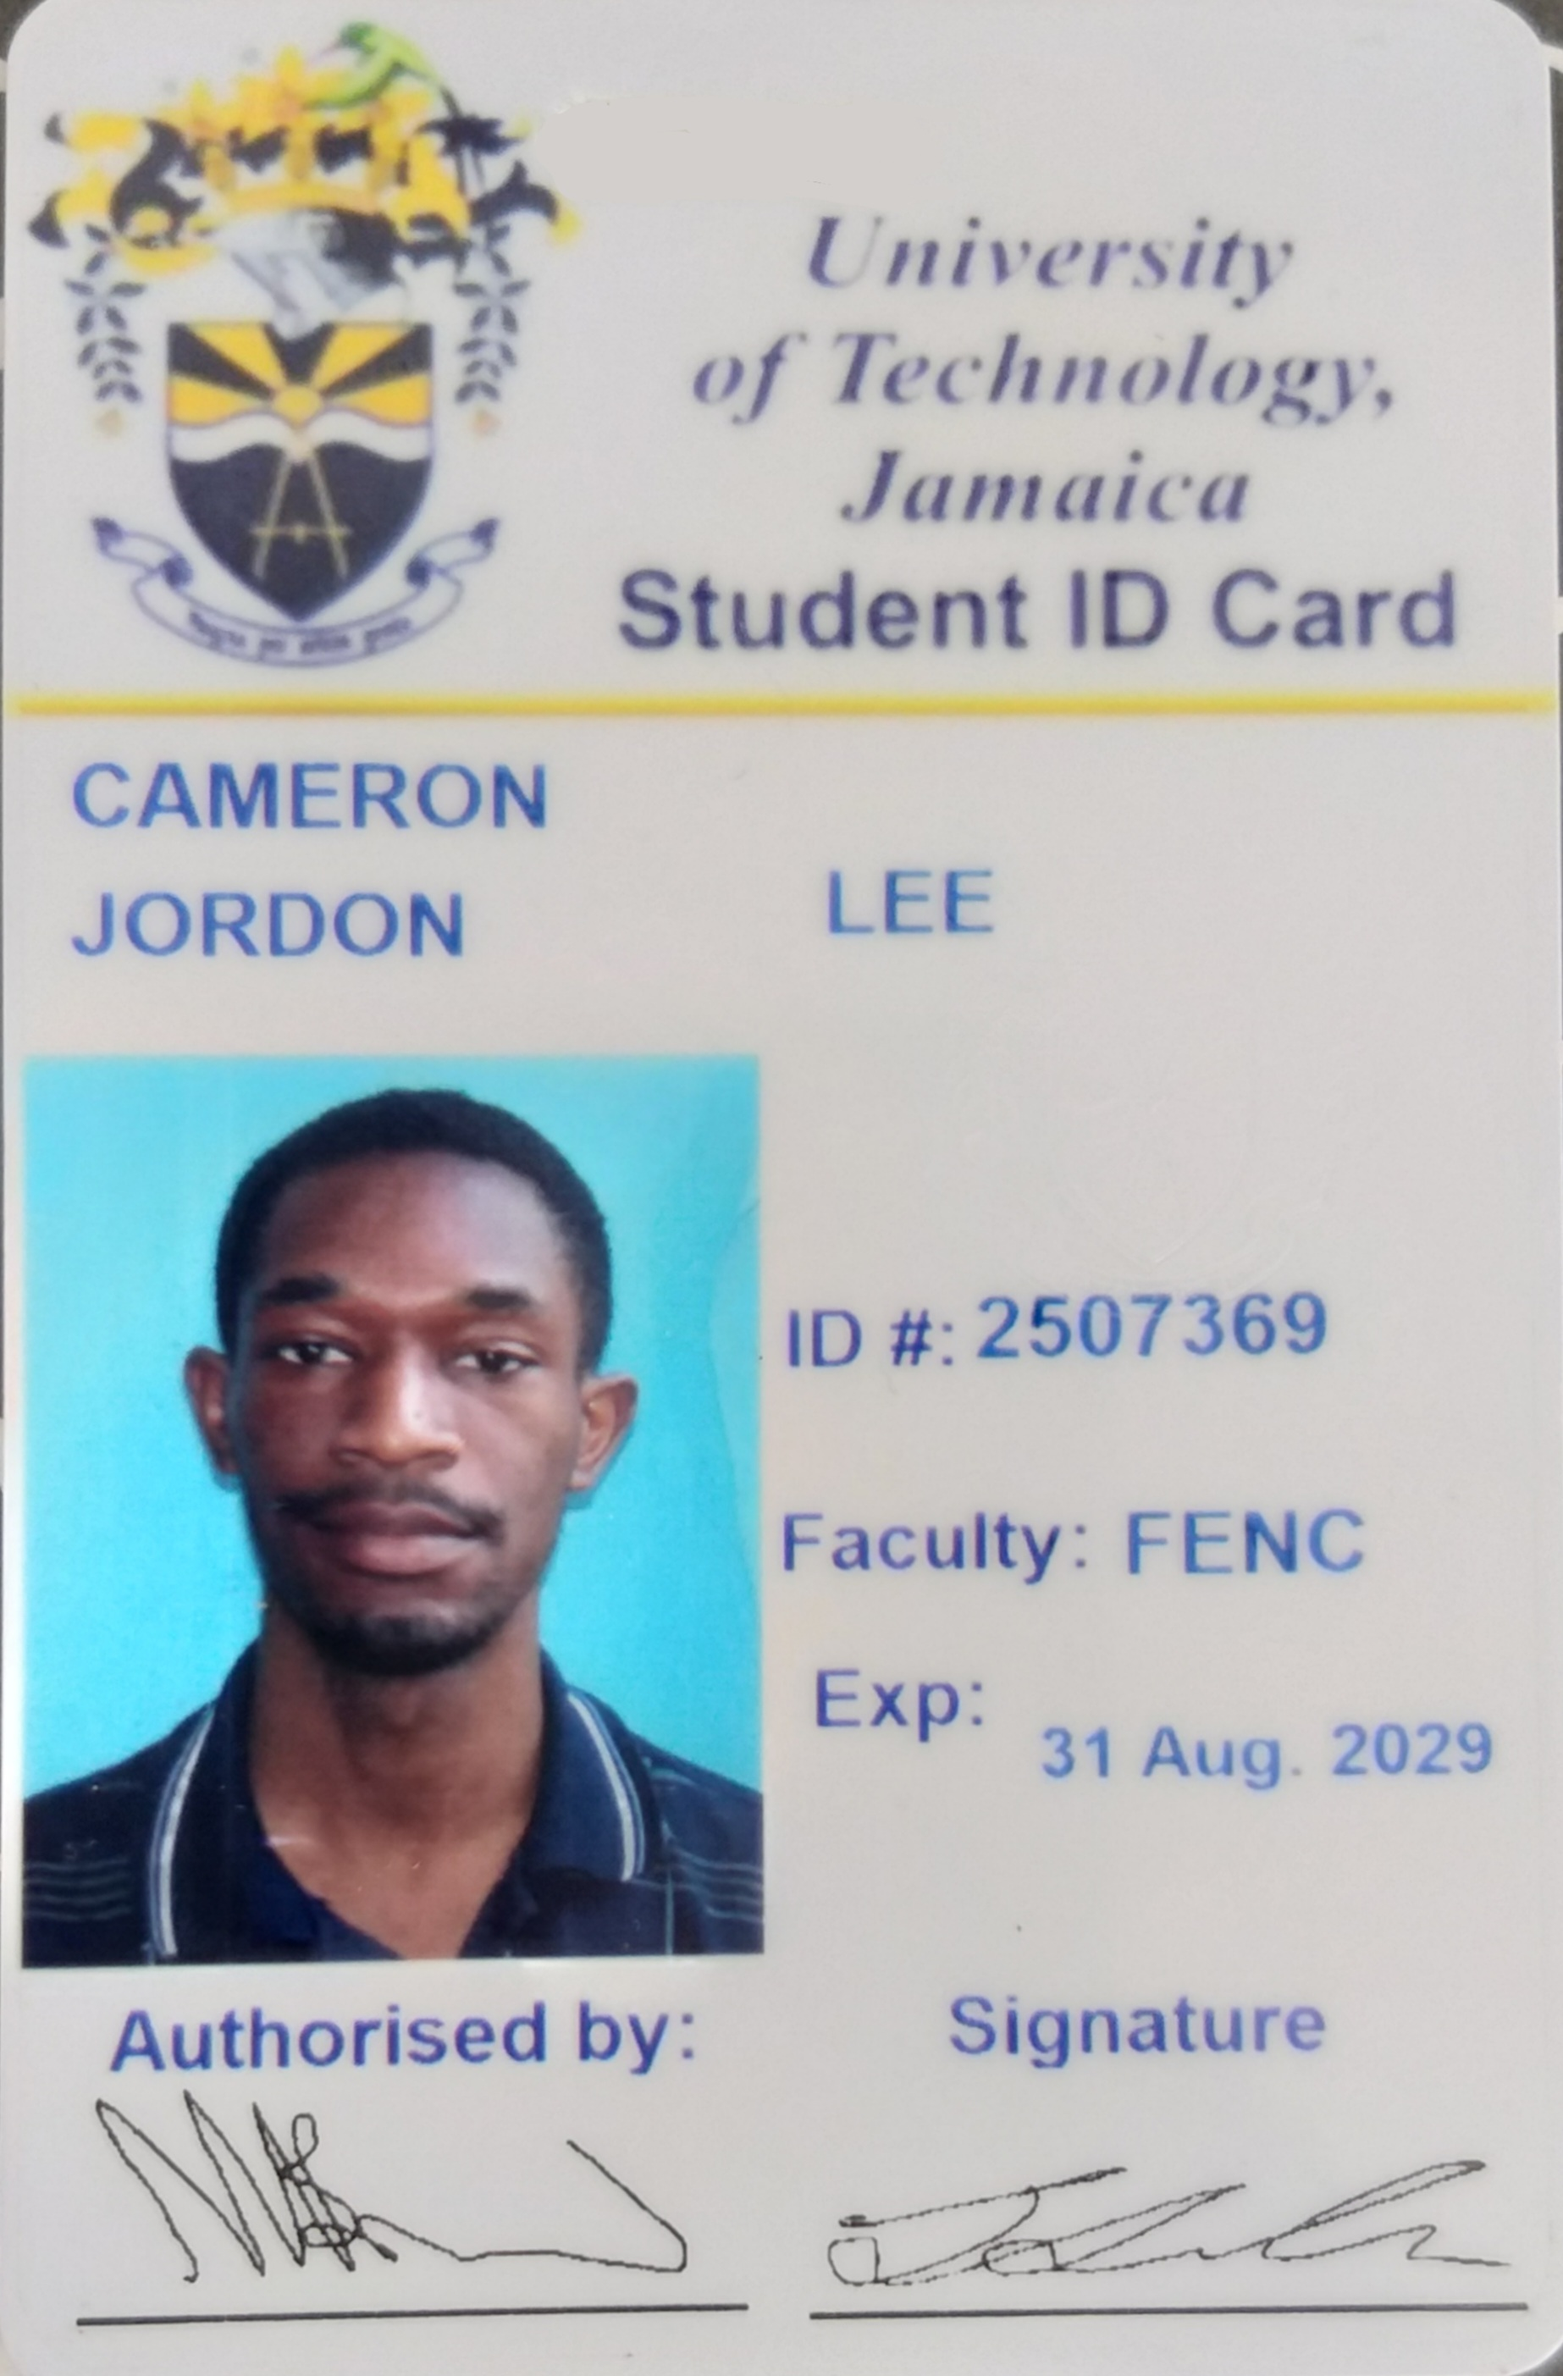
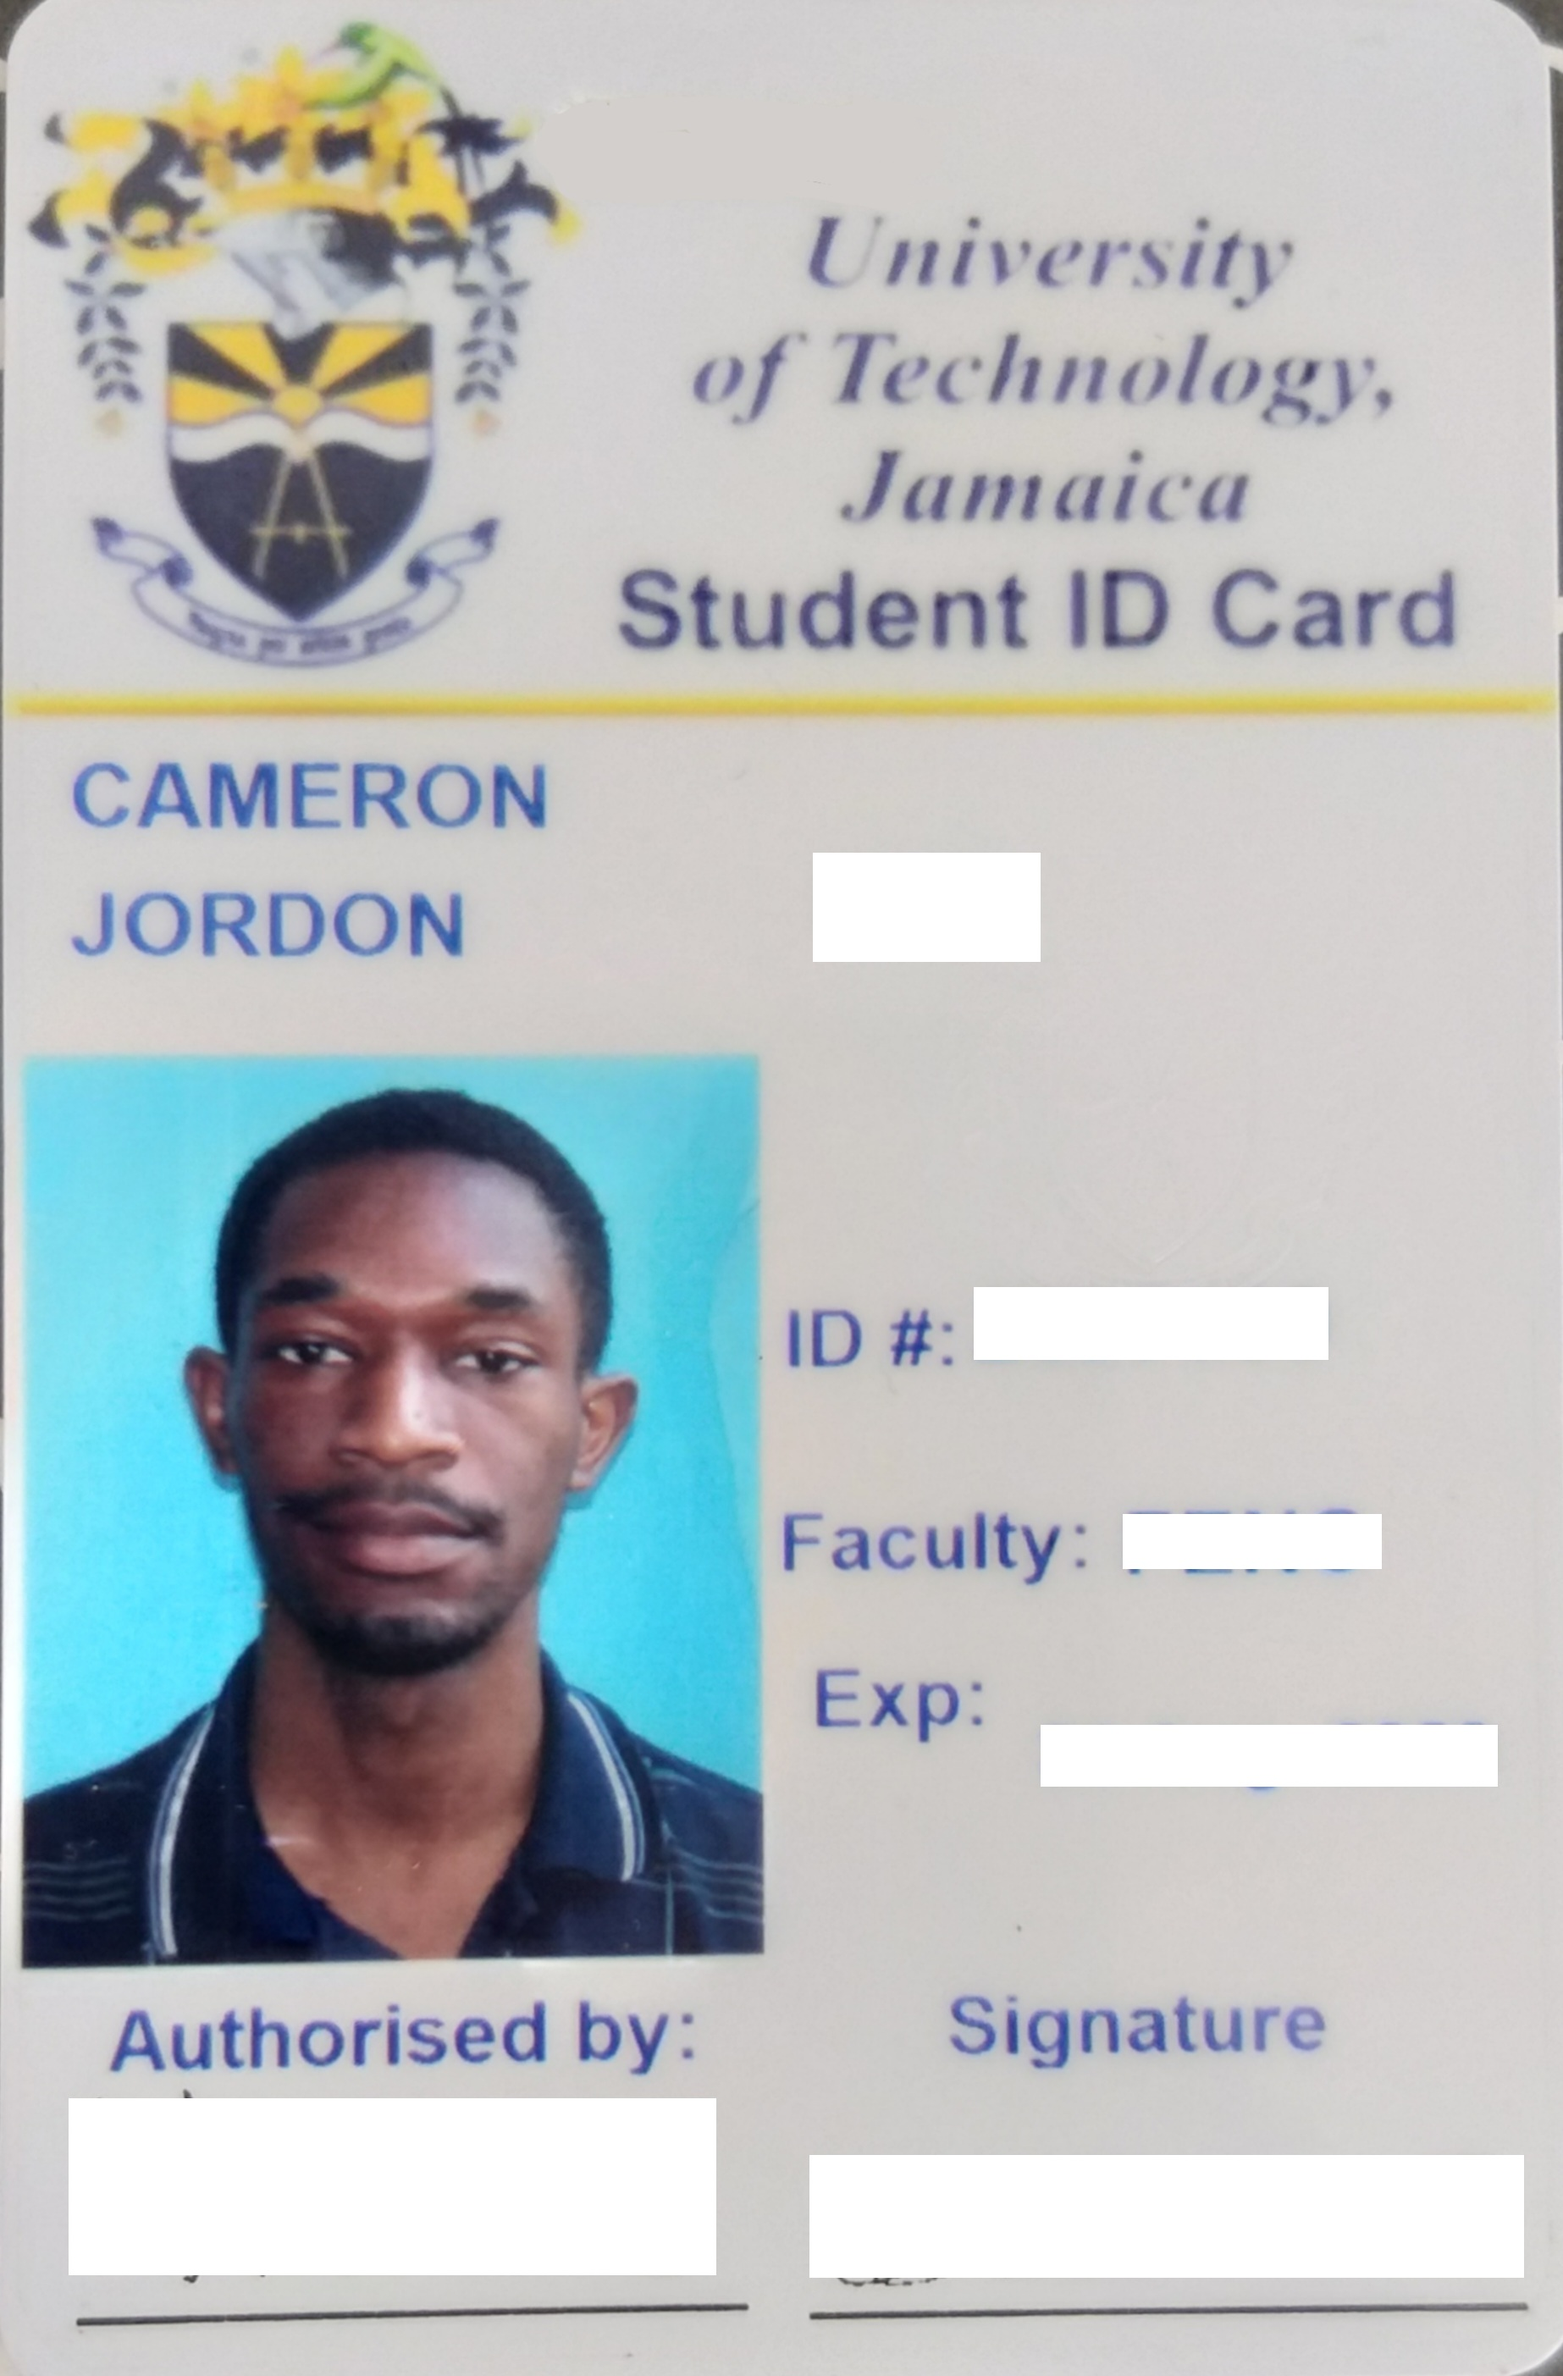
Made a change to the CSS

diff --git a/style.css b/style.css
@@ -103,7 +103,7 @@ a{
     padding: 10px;
     border-radius: 5px;
     color: rgb(251, 222, 183);
-    background-color: rgb(205, 92, 92);
+    background-color: #cd5c5c;
 }
 #amprt2{
     padding: 10px;
